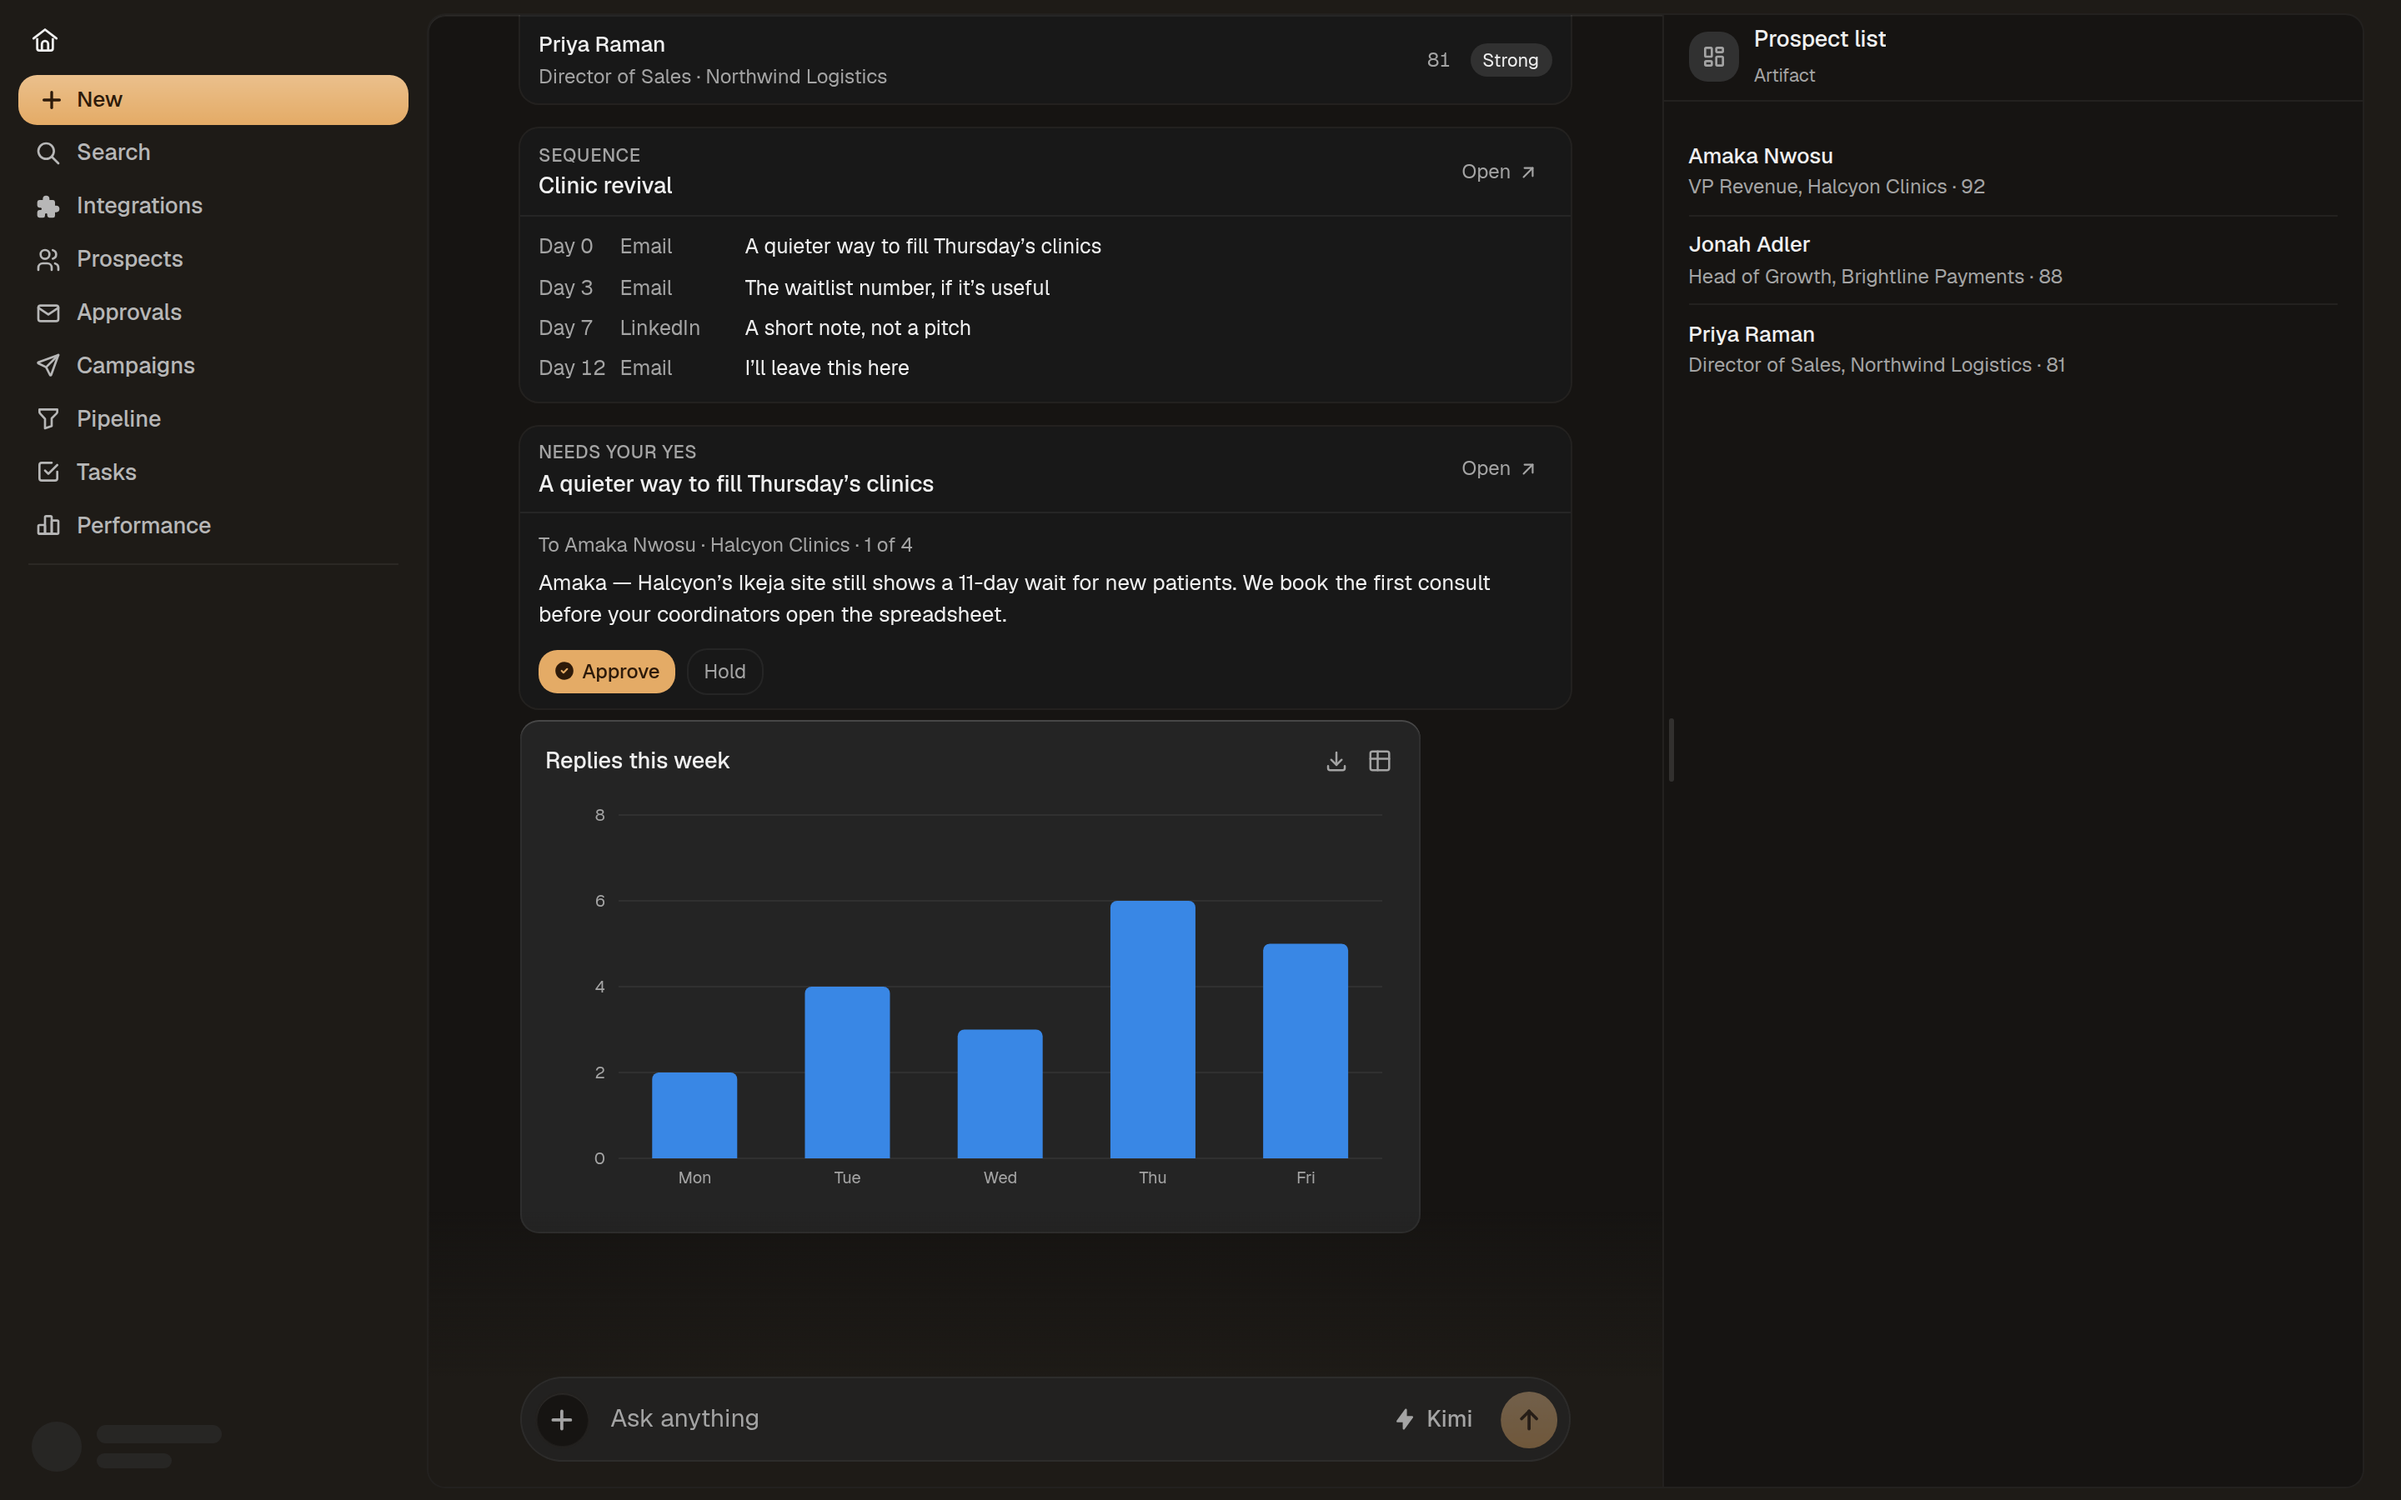
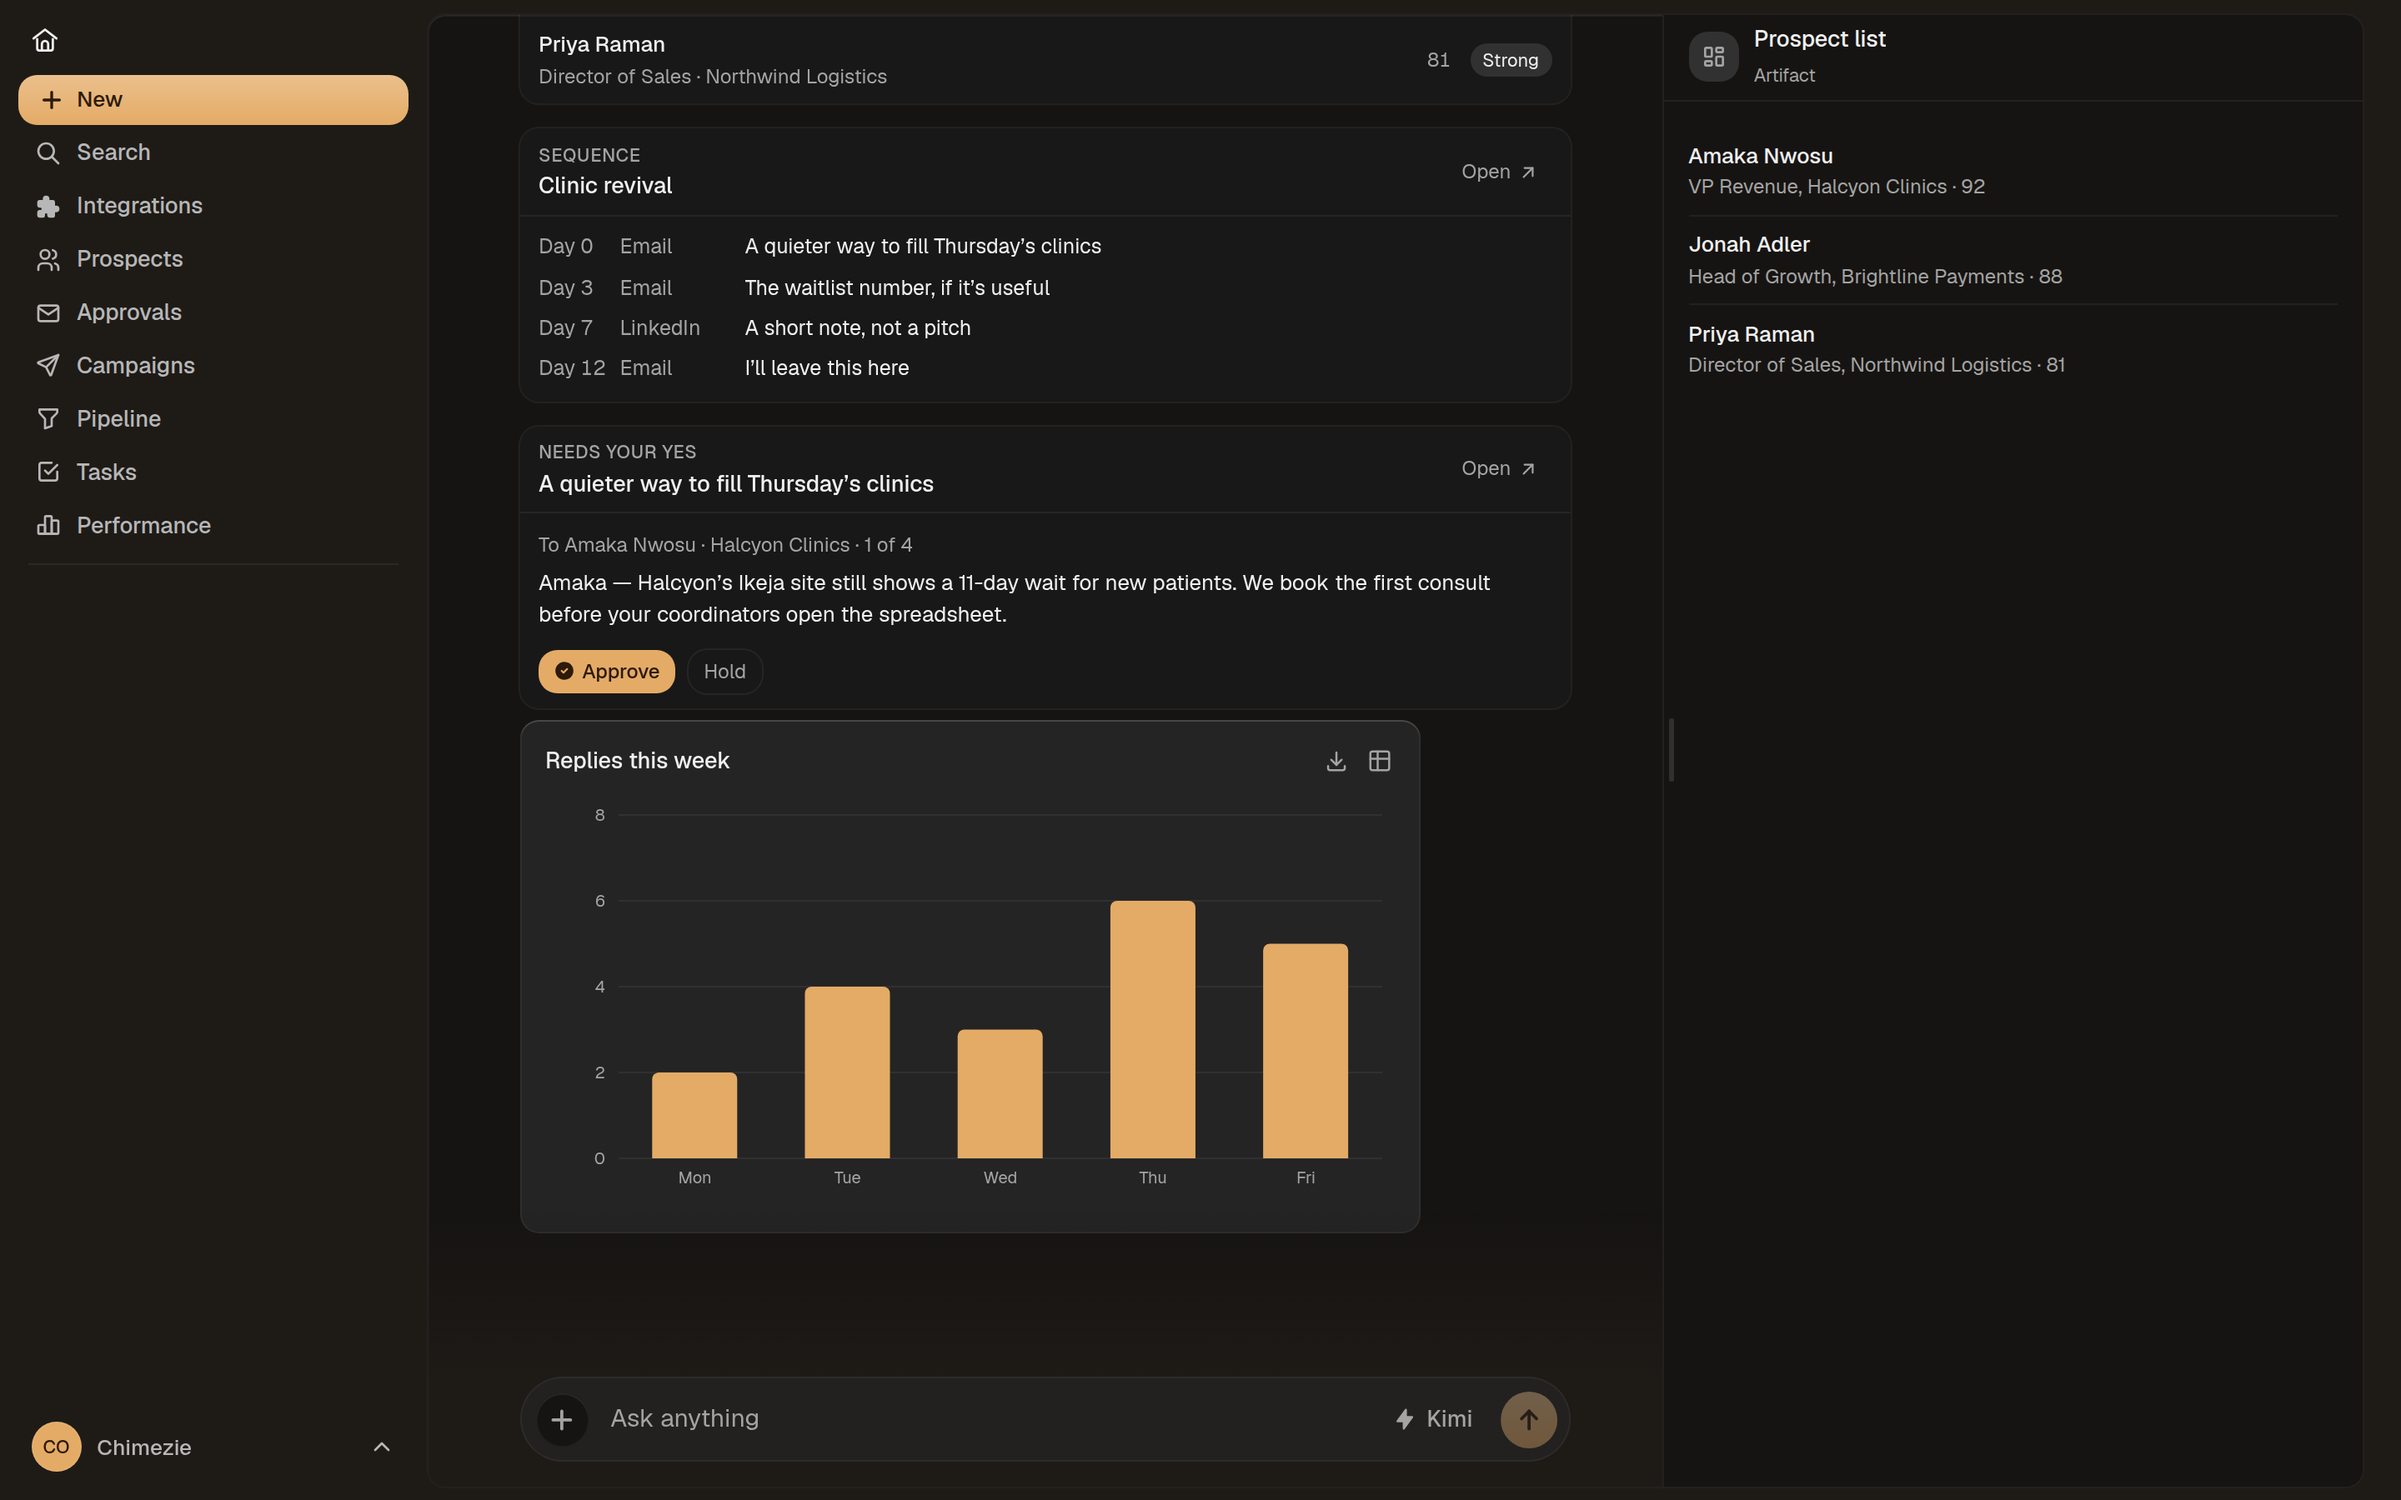
Theme the replies chart, show the demo user, and top-align desk cards.
Copper follows the accent in light and dark, the sidebar footer renders Chimezie instead of a loading skeleton, and widget content sits under each card header.

Changed region(s): [[0.25, 0.5911, 0.5625, 0.7778], [0.0, 0.9333, 0.0312, 0.9956]]

diff --git a/apps/v2/components/user-button.tsx b/apps/v2/components/user-button.tsx
@@ -9,6 +9,7 @@ import { AuthModal } from "@/components/auth/auth-modal";
 import { Avatar, AvatarFallback, AvatarImage } from "@/components/ui/avatar";
 import { DropdownMenu, DropdownMenuTrigger } from "@/components/ui/dropdown-menu";
 import { Skeleton } from "@/components/ui/skeleton";
+import { isDemoMode } from "@/lib/auth/mode";
 import { useDeploymentFeatures } from "@/lib/deployment-features";
 import { useCachedPlan, type PlanSummary } from "@/lib/plan-cache";
 import { ANALYTICS_EVENTS, captureEvent } from "@/lib/posthog";
@@ -71,12 +72,20 @@ function SignInRow() {
   );
 }
 
+function initials(name: string): string {
+  const parts = name.trim().split(/\s+/).filter(Boolean);
+  const letters = parts.slice(0, 2).map((part) => part.slice(0, 1));
+  return letters.join("").toUpperCase() || "?";
+}
+
 function SignedInRow({
   name,
+  initialsName,
   imageUrl,
   plan,
 }: {
   name: string;
+  initialsName: string;
   imageUrl: string;
   plan: PlanSummary;
 }) {
@@ -87,8 +96,10 @@ function SignedInRow({
     <DropdownMenu stableContentWidth>
       <DropdownMenuTrigger className={`group ${ROW}`}>
         <Avatar className={`sidebar-collapsed:-ml-1 ${RAIL_GLIDE}`}>
-          <AvatarImage src={imageUrl} alt="" />
-          <AvatarFallback>{name.slice(0, 1).toUpperCase()}</AvatarFallback>
+          {imageUrl ? <AvatarImage src={imageUrl} alt="" /> : null}
+          <AvatarFallback className="bg-primary text-[11px] font-medium text-primary-foreground">
+            {initials(initialsName)}
+          </AvatarFallback>
         </Avatar>
         <span className={`flex min-w-0 flex-col items-start gap-0.5 ${FADE}`}>
           <span className="max-w-full truncate text-sm leading-4 font-medium text-foreground-soft">
@@ -127,23 +138,30 @@ function SignedInRow({
    name, and a chevron that flips open a context menu floating above it.
    Everything reveals together — Clerk plus a (cached) plan — so the badge
    doesn't pop in after the rest of the row. */
+const DEMO_PLAN: PlanSummary = { planId: null, planName: "Desk" };
+
 export function UserButton() {
   const { user, isLoaded } = useUser();
+  const demo = isDemoMode();
   const { customer, isLoading: customerLoading, error } = useCustomer();
   /* Errored fetches (the pre-auth window) read as unsettled — the cached
-     plan holds the badge instead of a false "Free" flash. */
+     plan holds the badge instead of a false "Free" flash. Demo mode has
+     no billing customer, so waiting on one leaves the skeleton up. */
   const plan = useCachedPlan(
     user?.id,
     customer,
     customerLoading || error != null,
   );
 
-  const revealed = isLoaded && (!user || plan !== null);
+  const revealed = isLoaded && (demo || !user || plan !== null);
   const name =
+    user?.firstName ??
     user?.fullName ??
     user?.username ??
     user?.primaryEmailAddress?.emailAddress ??
     "You";
+  const initialsName = user?.fullName ?? name;
+  const shownPlan = demo ? DEMO_PLAN : plan;
 
   return (
     <SkeletonReveal
@@ -153,7 +171,14 @@ export function UserButton() {
     >
       {isLoaded &&
         (user ? (
-          plan && <SignedInRow name={name} imageUrl={user.imageUrl} plan={plan} />
+          shownPlan && (
+            <SignedInRow
+              name={name}
+              initialsName={initialsName}
+              imageUrl={user.imageUrl}
+              plan={shownPlan}
+            />
+          )
         ) : (
           <SignInRow />
         ))}

diff --git a/apps/v2/components/desk/desk-home.tsx b/apps/v2/components/desk/desk-home.tsx
@@ -253,18 +253,20 @@ export function DeskHome({
             )}
             {widgets.has("campaign") && (
               <Widget title="Campaign" meta="7 days">
-                <div className="flex h-full min-h-[7.5rem] items-end gap-1.5">
+                <div className="flex h-20 items-end gap-1.5">
                   {desk.bars.map((value, index) => (
                     <div
                       key={`${DAYS[index]}-${index}`}
                       className="flex h-full min-w-0 flex-1 flex-col items-center justify-end gap-1"
                     >
-                      <div
-                        className="w-full rounded-[3px] bg-primary/85"
-                        style={{
-                          height: `${Math.max(12, Math.round((value / peak) * 100))}%`,
-                        }}
-                      />
+                      <div className="flex w-full flex-1 items-end">
+                        <div
+                          className="w-full rounded-[3px] bg-primary/85"
+                          style={{
+                            height: `${Math.max(18, Math.round((value / peak) * 100))}%`,
+                          }}
+                        />
+                      </div>
                       <span className="text-[10px] leading-none text-muted-foreground">
                         {DAYS[index]}
                       </span>
@@ -375,7 +377,7 @@ function Widget({
         <span>{title}</span>
         {meta && <span className="tabular-nums">{meta}</span>}
       </header>
-      <div className="flex min-h-0 flex-1 flex-col justify-center gap-2">{children}</div>
+      <div className="flex min-h-0 flex-1 flex-col justify-start gap-2">{children}</div>
     </section>
   );
 }

diff --git a/apps/v2/components/thread/chart/chart-card.tsx b/apps/v2/components/thread/chart/chart-card.tsx
@@ -178,11 +178,14 @@ function ChartCardBody({
   // yesterday's frozen chart off screen rather than an axis with nothing on it.
   if (!isRenderableChart(spec)) return null;
 
-  const colors = seriesColors(
-    spec.type === "pie"
-      ? (spec.categories ?? [])
-      : spec.series.map((series) => series.name),
-  );
+  const colors =
+    spec.type !== "pie" && spec.series.length === 1
+      ? ["var(--primary)"]
+      : seriesColors(
+          spec.type === "pie"
+            ? (spec.categories ?? [])
+            : spec.series.map((series) => series.name),
+        );
 
   const draw = animate || swept;
 
